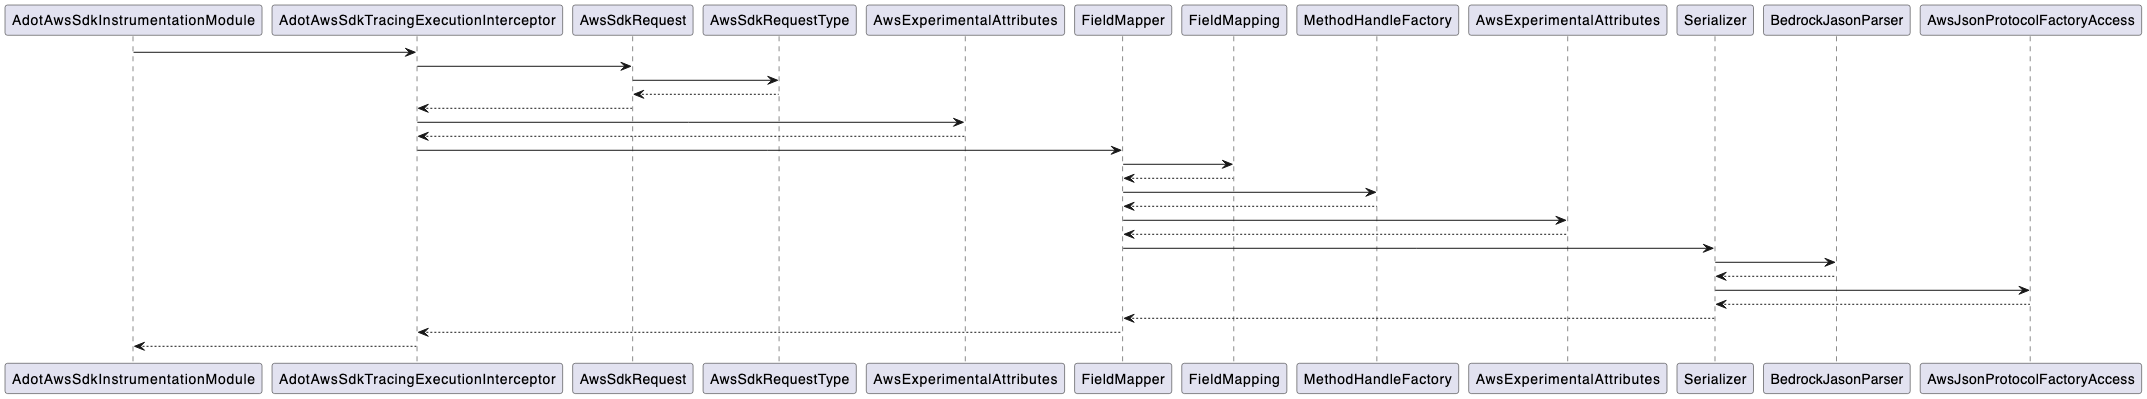
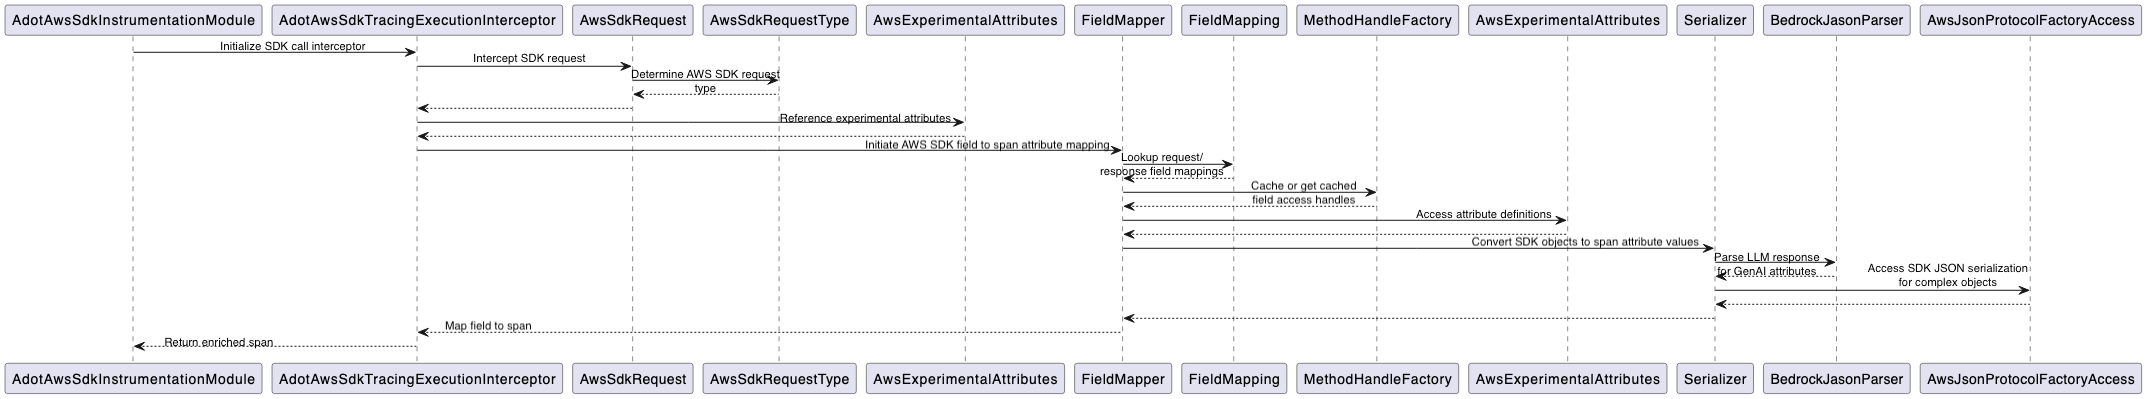
added new check for aws-sdk span and updated sequence diagram

diff --git a/instrumentation/aws-sdk/src/main/java/software/amazon/opentelemetry/javaagent/instrumentation/awssdk_v2_2/AdotAwsSdkTracingExecutionInterceptor.java b/instrumentation/aws-sdk/src/main/java/software/amazon/opentelemetry/javaagent/instrumentation/awssdk_v2_2/AdotAwsSdkTracingExecutionInterceptor.java
@@ -57,21 +57,13 @@ public class AdotAwsSdkTracingExecutionInterceptor implements ExecutionIntercept
       }
 
       /**
-       * Verify upstream interceptor has run by checking for its shaded attributes. The upstream
-       * TracingExecutionInterceptor adds several attributes with its class name, which gets shaded
-       * by ADOT's "com.gradleup.shadow" gradle plugin from
-       * 'io.opentelemetry.instrumentation.awssdk' to
-       * 'io.opentelemetry.javaagent.shaded.instrumentation.awssdk'
+       * Verify aws-sdk span is enabled by checking the span attributes for the 'aws.agent'
+       * attribute set by upstream aws-sdk.
        *
-       * <p>Upstream's executionAttributes: @see
-       * https://github.com/open-telemetry/opentelemetry-java-instrumentation/blob/main/instrumentation/aws-sdk/aws-sdk-2.2/library/src/main/java/io/opentelemetry/instrumentation/awssdk/v2_2/internal/TracingExecutionInterceptor.java#L57
-       *
-       * <p>ADOT's "com.gradleup.shadow" plugin: @see
-       * https://github.com/aws-observability/aws-otel-java-instrumentation/blob/main/build.gradle.kts#L166
+       * <p>Upstream's "aws.agent" attribute injection: @see <a
+       * href="https://github.com/open-telemetry/opentelemetry-java-instrumentation/blob/main/instrumentation/aws-sdk/aws-sdk-2.2/library/src/main/java/io/opentelemetry/instrumentation/awssdk/v2_2/internal/AwsSdkExperimentalAttributesExtractor.java#L15">reference</a>
        */
-      if (!executionAttributes
-          .toString()
-          .contains("io.opentelemetry.javaagent.shaded.instrumentation.awssdk")) {
+      if (!currentSpan.toString().contains("aws.agent=java-aws-sdk")) {
         return;
       }
 
